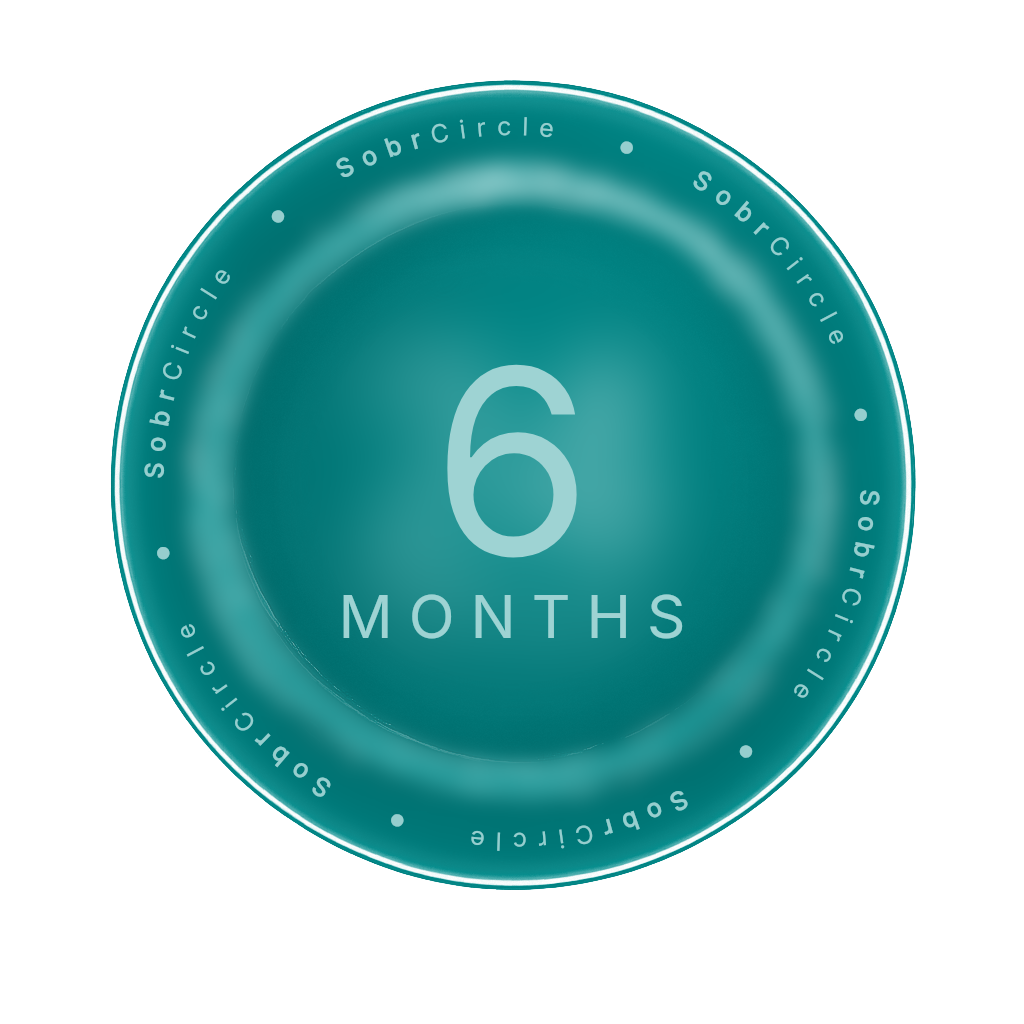
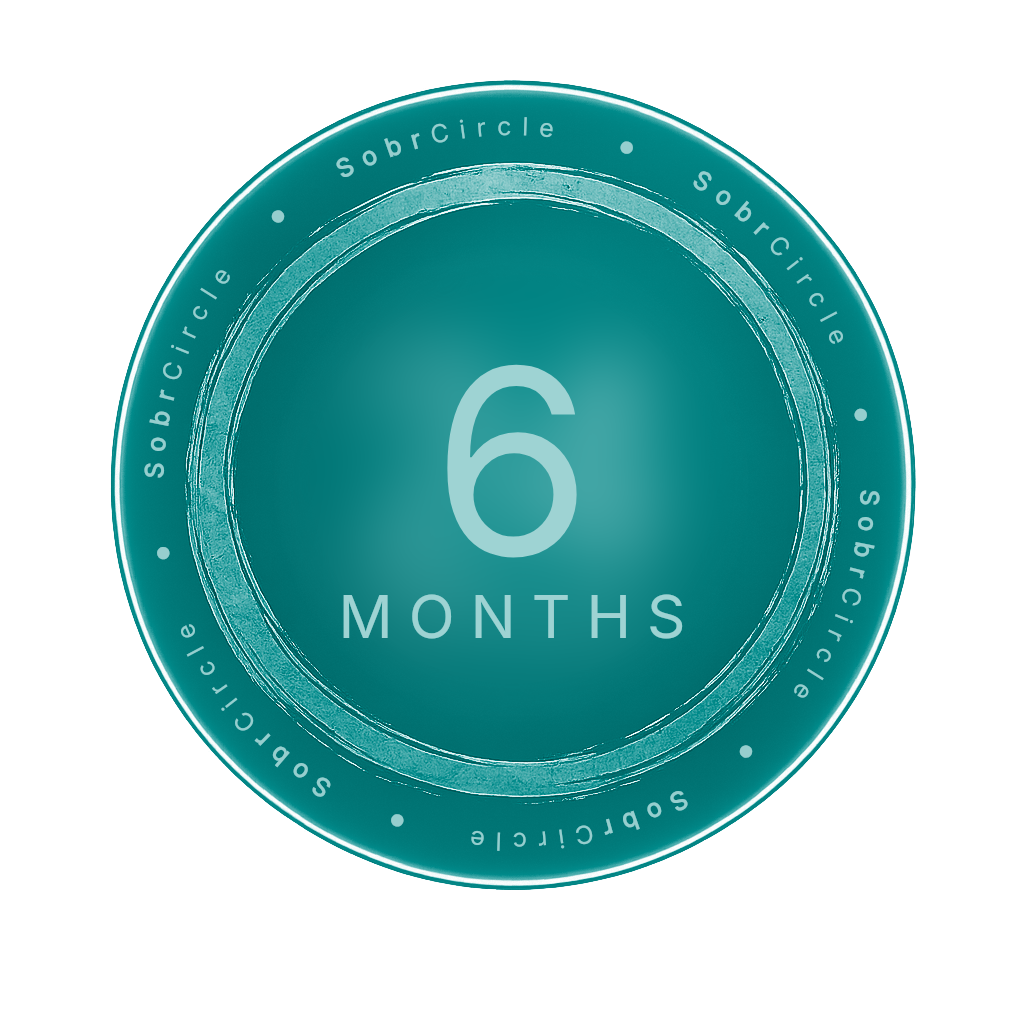
Revert chrome-ring smoothing — keep brushwork, drop the blur
Removes smoothChromeRing entirely. Back to the clean (no-distress) version
with the master template's natural brushed-ring texture preserved.

https://claude.ai/code/session_01TqmVcPLJNZuf7Q6XCPWgNk

Changed region(s): [[0.1562, 0.125, 0.8438, 0.7812]]

diff --git a/scripts/generate-badges.ts b/scripts/generate-badges.ts
@@ -377,41 +377,6 @@ function applyTint(ctx: SKRSContext2D, hex: string) {
   ctx.putImageData(img, 0, 0)
 }
 
-// Smooth the chrome ring brushwork on the tinted template by blending
-// a blurred copy back over the ring annulus only. The inner disc and
-// outer halo line stay untouched. Mask is feathered at both ring edges
-// so the smoothing fades into the original instead of hard-cutting.
-function smoothChromeRing(canvas: any) {
-  const ctx = canvas.getContext('2d')
-
-  // 1. Blurred copy of the canvas.
-  const blurred = createCanvas(SIZE, SIZE)
-  const bctx = blurred.getContext('2d')
-  bctx.filter = 'blur(10px)'
-  bctx.drawImage(canvas, 0, 0)
-  bctx.filter = 'none'
-
-  // 2. Feathered annulus mask: alpha 0 outside r=250 and r=395, alpha 1
-  // between r=280 and r=370 with soft transitions at both edges.
-  const mask = createCanvas(SIZE, SIZE)
-  const mctx = mask.getContext('2d')
-  const grad = mctx.createRadialGradient(CX, CY, 250, CX, CY, 395)
-  const span = 395 - 250
-  grad.addColorStop(0, 'rgba(255,255,255,0)')
-  grad.addColorStop((280 - 250) / span, 'rgba(255,255,255,1)')
-  grad.addColorStop((370 - 250) / span, 'rgba(255,255,255,1)')
-  grad.addColorStop(1, 'rgba(255,255,255,0)')
-  mctx.fillStyle = grad
-  mctx.fillRect(0, 0, SIZE, SIZE)
-
-  // 3. Mask the blurred copy down to the feathered ring band.
-  bctx.globalCompositeOperation = 'destination-in'
-  bctx.drawImage(mask, 0, 0)
-
-  // 4. Overlay the smoothed ring band back over the original canvas.
-  ctx.drawImage(blurred, 0, 0)
-}
-
 async function renderBadge(template: any, d: Duration): Promise<Buffer> {
   // Pre-tint the template so the disc-gray anchor maps exactly to the
   // assigned color. Doing this first (rather than at the end) avoids the
@@ -420,7 +385,6 @@ async function renderBadge(template: any, d: Duration): Promise<Buffer> {
   const tctx = tinted.getContext('2d')
   tctx.drawImage(template, 0, 0, SIZE, SIZE)
   applyTint(tctx, d.color)
-  smoothChromeRing(tinted)
 
   const canvas = createCanvas(SIZE, SIZE)
   const ctx = canvas.getContext('2d')
